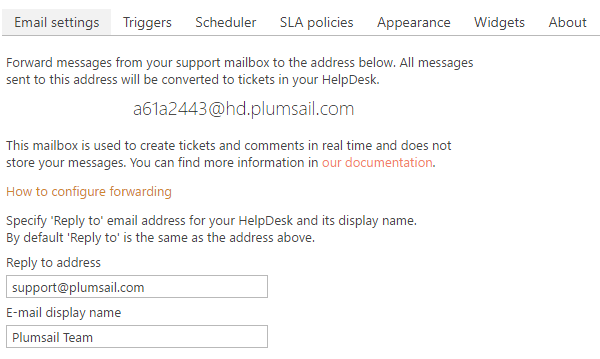
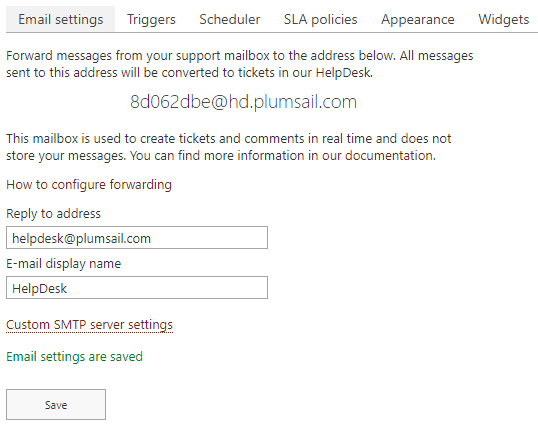
edited Quick HelpDesk configuration article

diff --git a/Online/Getting Started/Quick HelpDesk configuration.rst b/Online/Getting Started/Quick HelpDesk configuration.rst
@@ -17,11 +17,7 @@ Forward messages from your support mailbox
 
 If you want to receive new tickets from your support email address you
 need to configure message forwarding. Navigate to HelpDesk settings
-using the icon in the navbar:
-
-|SettingsIcon|
-
-You will see the “Email settings” section.
+using the left navbar. You will see the **Email settings** section.
 
 |HDEmailSettings|
 
@@ -60,7 +56,7 @@ customers will reply to your own support mailbox.
 You also can specify a friendly display name for your email address. By
 default, it is “HelpDesk”.
 
-|HDEmailSettingsReply|
+|HDEmailSettings|
 
 .. _create-contacts:
 
@@ -81,12 +77,10 @@ End-User
 
 End-Users and Members are created automatically, when a new ticket is created or when a user visits help desk for the first time. The only case when you need to do something manually is when you create a new agent or convert an existing contact to an agent by changing his role. Once you created an agent, you can start receiving notifications about new unassigned tickets.
 
-To create a new contact, navigate to “Contacts” using the icon in the
-right navbar:
+To create a new contact, navigate to **Contacts** using left navbar.
+Then click on **New**, specify mandatory fields and submit the form:
 
-|ContactsNav|
-
-Then specify mandatory fields and submit the form.
+|Create Contact|
 
 .. _place-widget:
 
@@ -107,11 +101,7 @@ Notice that adding a widget is optional.
 .. _Yahoo: https://help.yahoo.com/kb/SLN3525.html
 .. _here: ../Configuration%20Guide/Widget.html
 
-.. |SettingsIcon| image:: ../_static/img/settingsicon.png
-   :alt: Settings Navigation Icon
 .. |HDEmailSettings| image:: ../_static/img/email-settings-0.png
    :alt: Email Settings
-.. |HDEmailSettingsReply| image:: ../_static/img/email-settings-1.png
-   :alt: Email Reply Settings
-.. |ContactsNav| image:: ../_static/img/contactsnav.png
-   :alt: Contacts Navigation Icon
+.. |Create Contact| image:: ../_static/img/getting-started-quick-helpdesk-configuration-0.png
+    :alt: Create Contact

diff --git a/Online/Getting Started/License installation.rst b/Online/Getting Started/License installation.rst
@@ -2,7 +2,7 @@ License Installation
 ####################
 
 #. Buy a license for each domain where you are going to install
-   HelpDesk. Specify the domain names in the order details.
+   HelpDesk. Specify the domain names (``<domain>.sharepoint.com``) in the order details.
 #. After payment is processed your installations will be activated
    automatically within one day.
 
